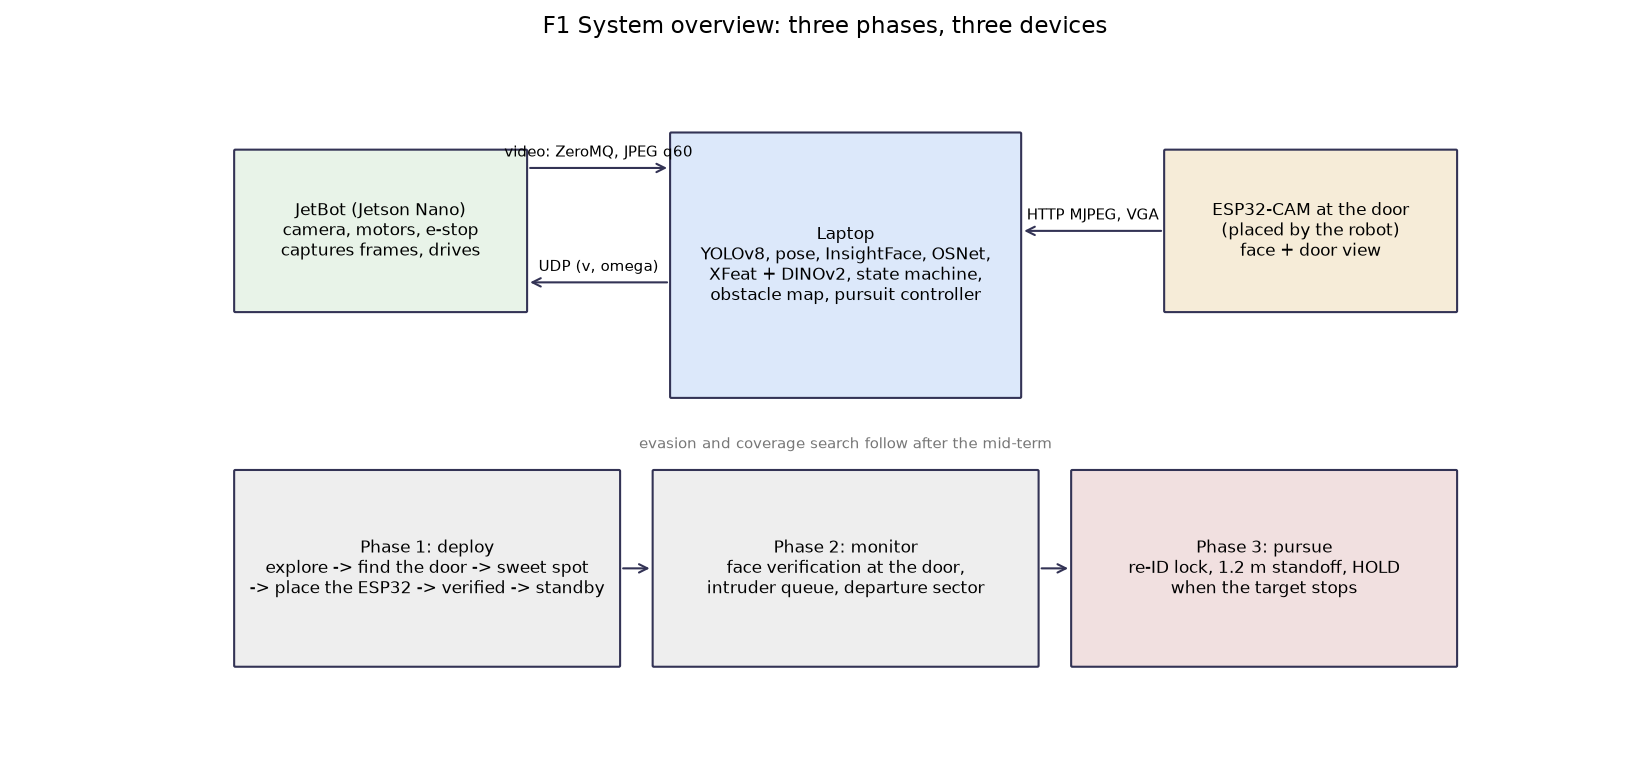
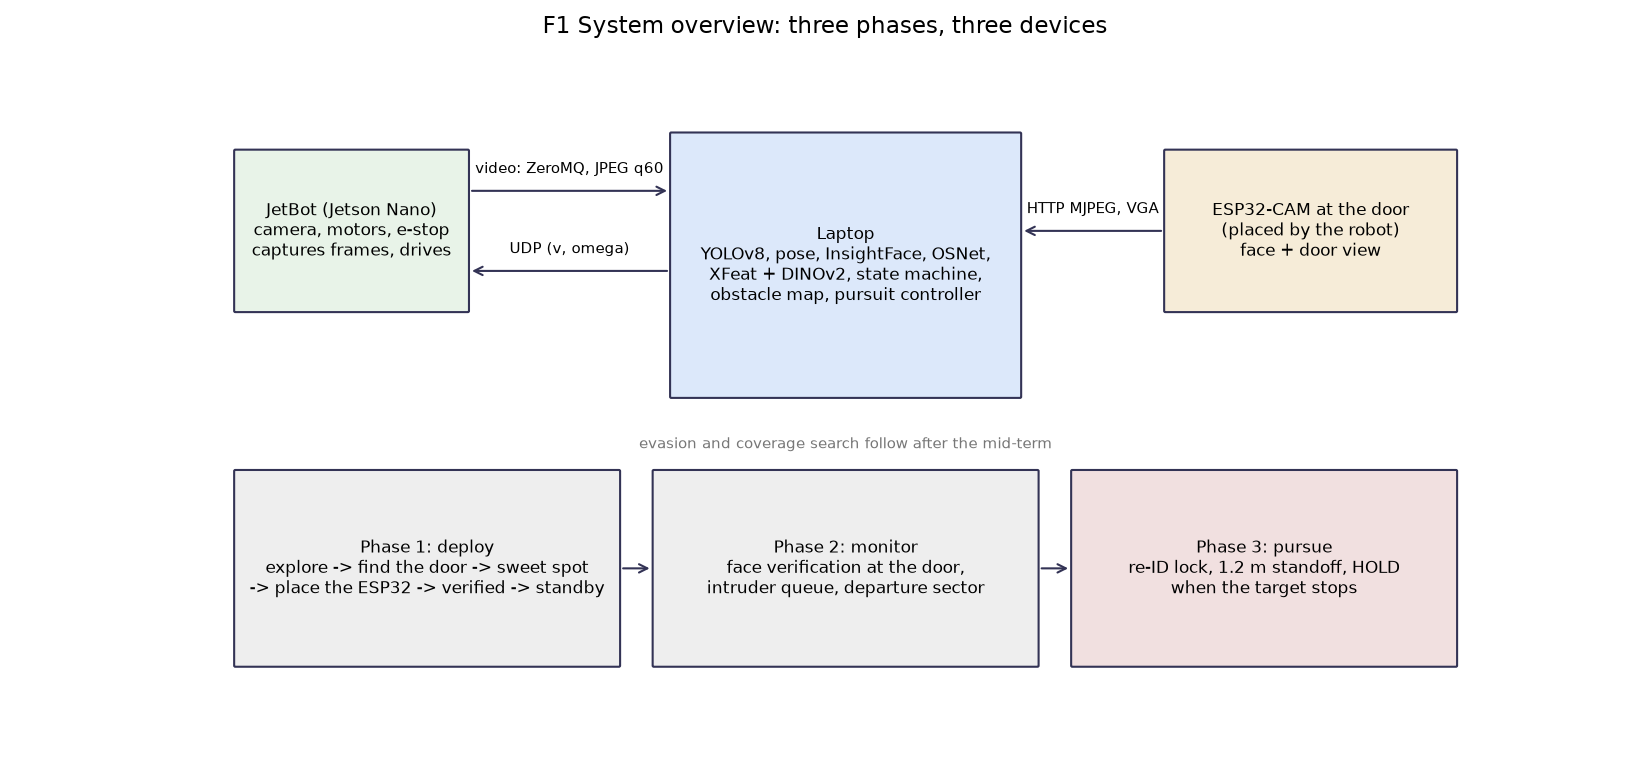
Review fixes for #98: restore the control-loop constants (NameError with marker fixes), validate --answers before the run, strict tape_answers, Edge safety wording, F5/F6 sources, figure labels

Changed region(s): [[0.1545, 0.2462, 0.4018, 0.3692], [0.2782, 0.1846, 0.4327, 0.2462], [0.6182, 0.2462, 0.7109, 0.2769]]

diff --git a/tools/plot_dqk_report_figures.py b/tools/plot_dqk_report_figures.py
@@ -1,4 +1,4 @@
-"""DQK's report figures that can be made from existing evidence (Mid-Term Report Plan section 3): F1 and F2 (diagrams), F4, F5, F6, F20, F21. Every number is read from a committed file.
+"""DQK's report figures that can be made from existing evidence (Mid-Term Report Plan section 3): F1 and F2 (diagrams), F4, F5, F6, F20, F21. Every number is read from a committed file (F19 from git history).
 
   python -m tools.plot_dqk_report_figures            # writes reports/DoanQuocKien/week-05/figures/F*.png
 
@@ -28,7 +28,7 @@ def box(ax, x, y, w, h, text, color="#dce8fa", fs=8):
 def arrow(ax, x0, y0, x1, y1, text="", fs=7):
     ax.annotate("", xy=(x1, y1), xytext=(x0, y0), arrowprops=dict(arrowstyle="->", color="#335"))
     if text:
-        ax.text((x0 + x1) / 2, (y0 + y1) / 2 + 0.2, text, ha="center", fontsize=fs)
+        ax.text((x0 + x1) / 2, (y0 + y1) / 2 + 0.25, text, ha="center", va="bottom", fontsize=fs, bbox=dict(fc="white", ec="none", pad=1))
 
 
 def f1():
@@ -36,11 +36,11 @@ def f1():
     ax.set_xlim(0, 22)
     ax.set_ylim(0, 10.5)
     ax.axis("off")
-    box(ax, 0.5, 6.7, 5.0, 2.8, "JetBot (Jetson Nano)\ncamera, motors, e-stop\ncaptures frames, drives", "#e8f3e8")
+    box(ax, 0.5, 6.7, 4.0, 2.8, "JetBot (Jetson Nano)\ncamera, motors, e-stop\ncaptures frames, drives", "#e8f3e8")
     box(ax, 8.0, 5.2, 6.0, 4.6, "Laptop\nYOLOv8, pose, InsightFace, OSNet,\nXFeat + DINOv2, state machine,\nobstacle map, pursuit controller", "#dce8fa")
     box(ax, 16.5, 6.7, 5.0, 2.8, "ESP32-CAM at the door\n(placed by the robot)\nface + door view", "#f6ecd8")
-    arrow(ax, 5.5, 9.2, 8.0, 9.2, "video: ZeroMQ, JPEG q60")
-    arrow(ax, 8.0, 7.2, 5.5, 7.2, "UDP (v, omega)")
+    arrow(ax, 4.5, 8.8, 8.0, 8.8, "video: ZeroMQ, JPEG q60")
+    arrow(ax, 8.0, 7.4, 4.5, 7.4, "UDP (v, omega)")
     arrow(ax, 16.5, 8.1, 14.0, 8.1, "HTTP MJPEG, VGA")
     phases = [("Phase 1: deploy", "explore -> find the door -> sweet spot\n-> place the ESP32 -> verified -> standby"),
               ("Phase 2: monitor", "face verification at the door,\nintruder queue, departure sector"),
@@ -60,17 +60,17 @@ def f2():
     ax.set_xlim(0, 22)
     ax.set_ylim(0, 9)
     ax.axis("off")
-    box(ax, 0.3, 5.5, 4.5, 2.6, "Robot camera\n640x480, 10-20 fps", "#e8f3e8")
-    box(ax, 0.3, 1.0, 4.5, 2.6, "Gamepad / e-stop\nR1 dead-man, Start arm", "#e8f3e8")
+    box(ax, 0.3, 5.5, 3.6, 2.6, "Robot camera\n640x480, 10-20 fps", "#e8f3e8")
+    box(ax, 0.3, 1.0, 3.6, 2.6, "Gamepad / e-stop\nR1 dead-man, Start arm", "#e8f3e8")
     box(ax, 8.5, 5.5, 5.0, 2.6, "Laptop pipeline\nundistort, detect, pose,\nverify, track", "#dce8fa")
     box(ax, 8.5, 1.0, 5.0, 2.6, "State machine +\ncontrollers (30 Hz)", "#dce8fa")
     box(ax, 17.0, 5.5, 4.5, 2.6, "ESP32-CAM\nOV2640 VGA MJPEG", "#f6ecd8")
     box(ax, 17.0, 1.0, 4.5, 2.6, "Robot motors\nwatchdog 0.3 s", "#e8f3e8")
-    arrow(ax, 4.8, 6.8, 8.5, 6.8, "ZeroMQ JPEG q60, seq + t_cap")
+    arrow(ax, 3.9, 6.8, 8.5, 6.8, "ZeroMQ JPEG q60, seq + t_cap")
     arrow(ax, 17.0, 6.8, 13.5, 6.8, "HTTP MJPEG :81")
     arrow(ax, 11, 5.5, 11, 3.6, "events")
     arrow(ax, 13.5, 2.3, 17.0, 2.3, "UDP (v, omega) 30 Hz")
-    arrow(ax, 4.8, 2.3, 8.5, 2.3, "latch file ESTOP via SSH poll 5 Hz")
+    arrow(ax, 3.9, 2.3, 8.5, 2.3, "ESTOP latch file, SSH poll 5 Hz")
     fig.suptitle("F2 Data flow: links, rates and formats", fontsize=11)
     fig.savefig(OUT / "F2_data_flow.png")
     plt.close(fig)
@@ -88,7 +88,7 @@ def f4():
     ax.set_xlabel("checkerboard view (sorted)")
     ax.set_ylabel("reprojection error (px)")
     ax.legend(fontsize=8, loc="upper left")
-    ax.set_title("F4 Fisheye calibration (equidistant model, 2026-10-11): per-view error of the FIRST fit (all views); red = the %d views then dropped" % len(dropped))
+    ax.set_title("F4 Fisheye calibration (equidistant model, 2026-10-11)\nper-view error of the FIRST fit (all views); red = the %d views then dropped" % len(dropped), fontsize=10)
     fig.tight_layout()
     fig.savefig(OUT / "F4_fisheye_error.png")
     plt.close(fig)
@@ -101,16 +101,19 @@ def f5():
         if j.get("pitch_down_deg") is None or "attempt1" in f or "locked" in f:
             continue
         rows.append((Path(f).stem.replace("camera_pose_", ""), j["pitch_down_deg"], j.get("H_cam_m")))
-    rows.append(("deployment runs 10-30 (video)", 6.1, None))
+    fm = json.load(open(R / "week-04" / "classroom_1030" / "analysis" / "floor_model_1030.json"))["camera"]["pitch_down_deg_marker"]
+    dep = list(fm["deploy_runs"].values())
+    rows.append(("deployment runs 10-30\n(marker in the video)", sum(dep) / len(dep), None))
     fig, ax = plt.subplots(figsize=(11, 4.2), dpi=150)
     ax.bar(range(len(rows)), [r[1] for r in rows], color=[RED if r[0].startswith("deployment") else BLUE for r in rows])
     for i, r in enumerate(rows):
-        ax.text(i, r[1] + (0.3 if r[1] >= 0 else -0.9), "%.1f" % r[1], ha="center", fontsize=8)
+        ax.text(i, r[1] + (0.3 if r[1] >= 0 else -0.9), "%.1f" % r[1] + ("" if r[2] is None else "\nH %.3f m" % r[2]), ha="center", fontsize=7)
     ax.axhline(0, c="#444", lw=0.8)
     ax.set_xticks(range(len(rows)))
     ax.set_xticklabels([r[0] for r in rows], rotation=25, ha="right", fontsize=7)
     ax.set_ylabel("camera pitch, positive = looking down (deg)")
-    ax.set_title("F5 Camera pitch over sessions (mount is tiltable; lens height fixed at 0.100 m): methods differ, see the pose files")
+    ax.set_title("F5 Camera pitch per session (tiltable mount). Pose files from different fit methods and heights H (shown); the red bar is the mean of %d\n"
+                 "marker readings %.2f-%.2f deg in the 10-30 videos (classroom_1030/analysis/floor_model_1030.json)" % (len(dep), min(dep), max(dep)), fontsize=9)
     fig.tight_layout()
     fig.savefig(OUT / "F5_camera_pitch_sessions.png")
     plt.close(fig)
@@ -132,12 +135,13 @@ def f6():
     b.set_xlabel("run")
     b.set_ylabel("lateral / forward (m per m)")
     b.set_title("B. Drift to the side per metre")
-    runs = {"11.58-11.70 V\n(0.2239-0.2245)": 0.2242, "11.39-11.44 V\n(0.2156-0.2159)": 0.2157}   # means of the per-drive fits in classroom_1030/analysis
-    c.bar(list(runs), list(runs.values()), color=BLUE)
-    for i, v in enumerate(runs.values()):
-        c.text(i, v + 0.002, "%.4f" % v, ha="center", fontsize=8)
+    sv = json.load(open(R / "week-04" / "classroom_1030" / "analysis" / "speed_vs_battery.json"))["data"]
+    for name, row in sv.items():
+        c.errorbar(row["battery_mean"], row["speed"], yerr=row["speed_se"], fmt="o", color=BLUE)
+        c.annotate(name, (row["battery_mean"], row["speed"]), textcoords="offset points", xytext=(4, 5), fontsize=7)
+    c.set_xlabel("battery (V)")
     c.set_ylim(0.2, 0.23)
-    c.set_ylabel("speed at v = 0.55 (m/s)")
+    c.set_ylabel("speed at v = 0.55 (m/s), one drive each")
     c.set_title("C. Speed vs battery (10-30, -3.9 %)")
     fig.suptitle("F6 Motion model: measured speed, drift and battery dependence (end points from the committed runs)", fontsize=10)
     fig.tight_layout()
@@ -197,7 +201,7 @@ def f19():
     weeks = [("W1\nOct 11", "2026-10-11 23:59"), ("W2\nOct 18", "2026-10-18 23:59"), ("W3\nOct 25", "2026-10-25 23:59"), ("W4\nNov 1", "2026-11-01 23:59"), ("W5 so far\nNov 3", "2026-11-03 23:59")]
     counts = []
     for label, when in weeks:
-        rev = subprocess.run(["git", "rev-list", "-1", "--before=" + when, "origin/main"], cwd=ROOT, capture_output=True, text=True).stdout.strip()
+        rev = subprocess.run(["git", "rev-list", "-1", "--before=" + when + " +0700", "origin/main"], cwd=ROOT, capture_output=True, text=True).stdout.strip()   # Asia/Bangkok, first-parent history of origin/main
         out = subprocess.run(["git", "grep", "-c", "^ *def test_", rev, "--", "tests"], cwd=ROOT, capture_output=True, text=True).stdout
         counts.append(sum(int(line.rsplit(":", 1)[1]) for line in out.splitlines() if line.strip()))
     fig, a = plt.subplots(figsize=(8, 4), dpi=150)
@@ -205,7 +209,8 @@ def f19():
     for i, c in enumerate(counts):
         a.text(i, c + 8, str(c), ha="center", fontsize=9)
     a.set_ylabel("test functions on main")
-    a.set_title("F19 Test growth by week (def test_ in tests/, from git history)")
+    head = subprocess.run(["git", "rev-parse", "--short", "origin/main"], cwd=ROOT, capture_output=True, text=True).stdout.strip()
+    a.set_title("F19 Test growth by week (def test_ in tests/, git history of origin/main @ %s,\nweek ends Sunday 23:59 Asia/Bangkok)" % head, fontsize=9)
     fig.tight_layout()
     fig.savefig(OUT / "F19_test_growth.png")
     plt.close(fig)

diff --git a/tools/tape_answers.py b/tools/tape_answers.py
@@ -2,23 +2,78 @@
 
   python -m tools.tape_answers data/deploy/t2b_1 --offset-x -0.18 --offset-y 0.19 --door-m 1.96 --los y --furniture y --furniture-m 0.9 --collisions 0
 
-Axes: x forward from the START, y left of the START, metres, tape offset of the robot from the sweet spot (+ = ahead / left). Writes the keys that deploy_live's `tape_answers` uses and the run is then complete.
+Axes: x forward from the START, y left of the START, metres, tape offset of the robot from the sweet spot (+ = ahead / left). A blank or missing value means "not answered" (never an error and never a zero);
+`offset_m` is computed only when both coordinates are valid; invalid input (NaN/Inf, negative distance or count, bad yes/no) is refused and the file is left untouched; the file is written atomically.
 """
 import argparse
 import json
 import math
+import os
 from pathlib import Path
+
+FLOATS = ("offset_x_forward_m", "offset_y_left_m", "door_distance_m_tape", "furniture_distance_m_tape")
+NONNEG = ("door_distance_m_tape", "furniture_distance_m_tape")
+YESNO = ("line_of_sight_clear", "near_boundary_or_furniture")
+
+
+def _blank(v):
+    return v is None or (isinstance(v, str) and not v.strip())
+
+
+def clean(answers):
+    """-> dict of the valid answered values; raises ValueError naming the first invalid one. Blank = unanswered (dropped)."""
+    if not isinstance(answers, dict):
+        raise ValueError("the answers must be a JSON object, got %s" % type(answers).__name__)
+    out = {}
+    for k, v in answers.items():
+        if _blank(v):
+            continue
+        if k in FLOATS:
+            try:
+                f = float(v)
+            except (TypeError, ValueError):
+                raise ValueError("%s: not a number: %r" % (k, v))
+            if not math.isfinite(f) or (k in NONNEG and f < 0):
+                raise ValueError("%s: must be a finite %s number, got %r" % (k, "non-negative" if k in NONNEG else "", v))
+            out[k] = f
+        elif k == "collisions":
+            try:
+                n = int(float(v))
+            except (TypeError, ValueError):
+                raise ValueError("collisions: not a number: %r" % (v,))
+            if n != float(v) or n < 0:
+                raise ValueError("collisions: must be a non-negative integer, got %r" % (v,))
+            out[k] = n
+        elif k in YESNO:
+            if str(v).strip().lower() not in ("y", "n", "yes", "no"):
+                raise ValueError("%s: must be y or n, got %r" % (k, v))
+            out[k] = "y" if str(v).strip().lower().startswith("y") else "n"
+        else:
+            out[k] = v
+    return out
+
+
+def load_answers_file(path):
+    """Read and validate an --answers file BEFORE the robot starts: a missing or malformed file must not cost a physical trial."""
+    try:
+        data = json.loads(Path(path).read_text(encoding="utf-8"))
+    except (OSError, ValueError) as exc:
+        raise ValueError("cannot read the answers file %s: %s" % (path, exc))
+    return clean(data)
 
 
 def add_answers(run_dir, answers):
     path = Path(run_dir) / "summary.json"
     summary = json.loads(path.read_text())
-    cur = summary.get("tape_answers") or {}
-    cur.update({k: v for k, v in answers.items() if v is not None})
+    cur = clean(summary.get("tape_answers") or {})
+    cur.update(clean(answers))
+    cur.pop("offset_m", None)
     if "offset_x_forward_m" in cur and "offset_y_left_m" in cur:
-        cur["offset_m"] = round(math.hypot(float(cur["offset_x_forward_m"]), float(cur["offset_y_left_m"])), 3)
+        cur["offset_m"] = round(math.hypot(cur["offset_x_forward_m"], cur["offset_y_left_m"]), 3)
     summary["tape_answers"] = cur
-    path.write_text(json.dumps(summary, indent=1))
+    tmp = path.with_suffix(".json.tmp")
+    tmp.write_text(json.dumps(summary, indent=1, allow_nan=False))
+    os.replace(str(tmp), str(path))
     return cur
 
 
@@ -33,8 +88,11 @@ def main():
     ap.add_argument("--furniture-m", type=float, help="tape distance to that wall or furniture, m")
     ap.add_argument("--collisions", type=int)
     a = ap.parse_args()
-    out = add_answers(a.run_dir, {"offset_x_forward_m": a.offset_x, "offset_y_left_m": a.offset_y, "door_distance_m_tape": a.door_m, "line_of_sight_clear": a.los,
-                                  "near_boundary_or_furniture": a.furniture, "furniture_distance_m_tape": a.furniture_m, "collisions": a.collisions})
+    try:
+        out = add_answers(a.run_dir, {"offset_x_forward_m": a.offset_x, "offset_y_left_m": a.offset_y, "door_distance_m_tape": a.door_m, "line_of_sight_clear": a.los,
+                                      "near_boundary_or_furniture": a.furniture, "furniture_distance_m_tape": a.furniture_m, "collisions": a.collisions})
+    except ValueError as exc:
+        raise SystemExit("REFUSED, nothing written: %s" % exc)
     print(json.dumps(out, indent=1))
 
 

diff --git a/tools/deploy_live.py b/tools/deploy_live.py
@@ -113,6 +113,8 @@ def fresh_flag(feed, now, max_age=ESP_FRESH_S):
     """feed: dict with in_view and t (when the detector last answered), or None -> True only for a fresh in-view answer."""
     return bool(feed and feed.get("t") is not None and now - feed["t"] <= max_age and feed.get("in_view"))
 
+SPIN_PULSE_S, SPIN_PAUSE_S, FIX_STILL_S, FIX_MAX_W = 0.2, 0.5, 0.4, 0.15     # a spin goes in 0.2 s pulses with 0.5 s pauses when marker fixes are on; a fix needs the robot still for 0.4 s; steering below 0.15 counts as straight
+
 
 def blend_fix(pose, fix, gain):
     """Move the dead-reckoned pose toward a marker pose by `gain` (yaw along the short way)."""
@@ -258,6 +260,13 @@ def main():
     ap.add_argument("--answers", default=None, help="JSON file with the tape answers (keys as in summary.json tape_answers); without it they are asked at the end when a terminal is attached, else add them with tools.tape_answers")
     ap.add_argument("--no-audio", action="store_true", help="do not speak (rehearsal in a quiet room); the prompts are still logged")
     a = ap.parse_args()
+    answers_file = None
+    if a.answers:                                         # validate BEFORE the robot starts: a bad file must not cost a physical trial
+        from tools.tape_answers import load_answers_file
+        try:
+            answers_file = load_answers_file(a.answers)
+        except ValueError as exc:
+            raise SystemExit("ABORT: %s" % exc)
     a.dry_run = a.dry_run or a.no_robot
     if not 10 <= a.seconds <= 300:
         ap.error("seconds in [10, 300]")
@@ -503,8 +512,8 @@ def main():
     print("ENDED: %s | %.1f s | DR path %.1f m | final DR pose (%.2f, %.2f, %.0f deg) | prompts %s" % (end["reason"], time.time() - t_wall, path, final[0], final[1], math.degrees(final[2]), runner.prompts), flush=True)
 
     answers = {}
-    if a.answers:
-        answers = json.loads(Path(a.answers).read_text())
+    if answers_file is not None:
+        answers = answers_file
     elif not a.dry_run and sys.stdin is not None and sys.stdin.isatty():
         for key, q in (("door_distance_m_tape", "Distance from the robot to the entrance door (m, tape): "), ("line_of_sight_clear", "Clear line of sight to the entrance (y/n): "),
                        ("near_boundary_or_furniture", "Adjacent wall or furniture within 1 m (y/n): "), ("furniture_distance_m_tape", "Distance to that wall or furniture (m, tape; blank if none): "),
@@ -512,8 +521,8 @@ def main():
                        ("collisions", "Collisions or touches (number): ")):
             try:
                 answers[key] = input(q).strip()
-            except EOFError:
-                answers[key] = ""
+            except (EOFError, KeyboardInterrupt, OSError):
+                answers[key] = ""          # unanswered: the evidence below is still saved; add them with tools.tape_answers
     elif not a.dry_run:
         print("WARNING: the tape answers were NOT captured (no terminal, no --answers file). Add them now: python -m tools.tape_answers <run folder> --offset-x .. --offset-y ..", flush=True)
     out_dir = Path(a.out)

diff --git a/tests/test_tape_answers.py b/tests/test_tape_answers.py
@@ -1,10 +1,49 @@
 import json
 
-from tools.tape_answers import add_answers
+import pytest
+
+from tools.tape_answers import add_answers, clean, load_answers_file
+
+
+def _run(tmp_path, answers):
+    (tmp_path / "summary.json").write_text(json.dumps({"label": "t", "tape_answers": answers}))
+    return tmp_path
 
 
 def test_answers_are_merged_into_the_summary_with_the_offset_length(tmp_path):
-    (tmp_path / "summary.json").write_text(json.dumps({"label": "t", "tape_answers": {"collisions": ""}}))
-    out = add_answers(tmp_path, {"offset_x_forward_m": -0.18, "offset_y_left_m": 0.19, "collisions": 0, "door_distance_m_tape": None})
-    saved = json.loads((tmp_path / "summary.json").read_text())["tape_answers"]
-    assert saved == out and out["offset_m"] == 0.262 and out["collisions"] == 0 and "door_distance_m_tape" not in out
+    out = add_answers(_run(tmp_path, {"collisions": ""}), {"offset_x_forward_m": -0.18, "offset_y_left_m": 0.19, "collisions": 0, "door_distance_m_tape": None})
+    assert json.loads((tmp_path / "summary.json").read_text())["tape_answers"] == out
+    assert out["offset_m"] == 0.262 and out["collisions"] == 0 and "door_distance_m_tape" not in out
+
+
+def test_blank_answers_stay_unanswered_and_a_later_partial_update_works(tmp_path):
+    d = _run(tmp_path, {"offset_x_forward_m": "", "offset_y_left_m": "", "collisions": ""})
+    out = add_answers(d, {"collisions": 0})
+    assert out == {"collisions": 0} and "offset_m" not in out                       # blanks are not zeros, one coordinate gives no length
+    out = add_answers(d, {"offset_x_forward_m": 0.3})
+    assert "offset_m" not in out
+    assert add_answers(d, {"offset_y_left_m": -0.4})["offset_m"] == 0.5
+
+
+@pytest.mark.parametrize("bad", [{"offset_x_forward_m": float("nan")}, {"offset_y_left_m": float("inf")}, {"collisions": -1}, {"collisions": 1.5},
+                                 {"door_distance_m_tape": -2}, {"line_of_sight_clear": "maybe"}, {"offset_x_forward_m": "abc"}])
+def test_invalid_input_is_refused_and_the_file_is_left_untouched(tmp_path, bad):
+    d = _run(tmp_path, {"collisions": 0})
+    before = (tmp_path / "summary.json").read_text()
+    with pytest.raises(ValueError):
+        add_answers(d, bad)
+    assert (tmp_path / "summary.json").read_text() == before
+
+
+def test_an_answers_file_is_validated_before_a_run(tmp_path):
+    with pytest.raises(ValueError, match="cannot read"):
+        load_answers_file(tmp_path / "missing.json")
+    (tmp_path / "bad.json").write_text("{not json")
+    with pytest.raises(ValueError, match="cannot read"):
+        load_answers_file(tmp_path / "bad.json")
+    (tmp_path / "list.json").write_text("[1, 2]")
+    with pytest.raises(ValueError, match="JSON object"):
+        load_answers_file(tmp_path / "list.json")
+    (tmp_path / "ok.json").write_text(json.dumps({"collisions": "0", "line_of_sight_clear": "Y", "offset_x_forward_m": ""}))
+    assert load_answers_file(tmp_path / "ok.json") == {"collisions": 0, "line_of_sight_clear": "y"}
+    assert clean({}) == {}

diff --git a/tests/test_deploy_live.py b/tests/test_deploy_live.py
@@ -14,15 +14,15 @@ class Speaker:
         return True
 
 
-def loop(get_flag=lambda now: False, get_link=lambda now: None, seconds=100.0, key=lambda: None, cfg=None):
+def loop(get_flag=lambda now: False, get_link=lambda now: None, seconds=100.0, key=lambda: None, cfg=None, get_fix=None, vantage=(1.2, 0.6)):
     clock_t = {"t": 0.0}
     sp = Speaker()
-    runner = DeployRunner(StateMachine(cfg or StateMachineConfig()), sp, vantage_xy=(1.2, 0.6), centre_xy=(3.0, 0.0))
+    runner = DeployRunner(StateMachine(cfg or StateMachineConfig()), sp, vantage_xy=vantage, centre_xy=(3.0, 0.0))
     cmd, end = {"v": 0.0, "w": 0.0, "t": 0.0}, {"reason": None}
 
     def sleep(d):
         clock_t["t"] += d
-    rows, pose, path = control_loop(runner, WheelModel(), cmd, end, lambda now: get_flag(now), get_link, seconds, clock=lambda: clock_t["t"], sleep=sleep, key=key)
+    rows, pose, path = control_loop(runner, WheelModel(), cmd, end, lambda now: get_flag(now), get_link, seconds, clock=lambda: clock_t["t"], sleep=sleep, key=key, get_fix=get_fix)
     return rows, end, runner, sp, cmd, path
 
 
@@ -144,3 +144,25 @@ def test_stop_margin_stops_the_motors_before_the_stop_range_and_the_arrival_pose
     r.start(0.0, 0.0)
     assert r.step(0.1, (0.0, 0.0, 0.0)) == (0.0, 0.0)              # 0.90 m <= 0.87 + 0.044: stopped already (it coasts to about 0.86 m)
     assert r.pose_reset is not None and abs(r.pose_reset[0]) < 1e-9 and abs(r.pose_reset[1] + 1.8) < 1e-9
+
+
+def test_the_control_loop_runs_with_marker_fixes_on_and_spins_in_pulses():
+    """Regression (found by HNHL's review of #98): removing servo_motion had removed the loop's constants, so every run with get_fix raised NameError."""
+    rows, end, runner, sp, cmd, path = loop(seconds=3.0, get_fix=lambda: None, vantage=(0.0, 2.0))      # the goal is 90 deg to the left: the robot spins first
+    spin = [r[5] for r in rows if r[0] < 2.9]
+    assert end["reason"] == "time limit" and any(w > 0.3 for w in spin) and any(w == 0.0 for w in spin)      # pulses with pauses
+    assert end["fixes"] == 0
+
+
+def test_a_missing_or_malformed_answers_file_aborts_before_any_hardware(monkeypatch, tmp_path):
+    import sys
+    import pytest
+    from tools import deploy_live
+    for name, content in (("missing.json", None), ("bad.json", "{not json"), ("list.json", "[1]")):
+        f = tmp_path / name
+        if content is not None:
+            f.write_text(content)
+        monkeypatch.setattr(sys, "argv", ["deploy_live", "--centre", "0", "0", "--no-robot", "--answers", str(f)])
+        with pytest.raises(SystemExit) as e:
+            deploy_live.main()
+        assert str(e.value).startswith("ABORT:")

diff --git a/docs/Implementation Plan.md b/docs/Implementation Plan.md
@@ -177,7 +177,7 @@ Each week is closed by an **integration session on the Monday of the following w
 | G3 | Mon Nov 30 (W8 session, after the submission) | Stage B: pursuit loop on the robot | pursuit, hold and the laptop-path strike rows already pass (W6, W8); G2 passed | pursuit stays on the laptop |
 | G4 | Mon Dec 7 (W9 session) | Stage C (stretch): door pipeline, search, network on the robot | Stage B passed its rows and the team has a free week | the door and the search stay on the laptop; **no new edge work after Mon Dec 14**; code freeze Dec 23 applies as for everything |
 
-**G2 status (2026-11-03, plan fitted to the lateness at DQK's request): NOT MET and not attempted.** Stage A (the on-robot obstacle layer) was never started: Week 5 had no robot session, the 2026-10-30 session spent its time on the Phase 1 deployment, and the obstacle detector gave no distance for most furniture on the glossy floor (chair 1.2 m detected, no distance; chair 2.4 m not detected). The row's own fallback applies: the obstacle layer stays on the laptop path and there is no further edge work before the mid-term. G3 and G4 need G2 passed, so they are dropped for now. The 'Edge safety' row (laptop disconnected, motors stop <= 350 ms) does not need Stage A and stays on the home list for 2026-11-04. Re-open Stage A only after the mid-term (Week 8 or later).
+**G2 status (2026-11-03, plan fitted to the lateness at DQK's request): NOT MET and not attempted.** Stage A (the on-robot obstacle layer) was never started: Week 5 had no robot session, the 2026-10-30 session spent its time on the Phase 1 deployment, and the obstacle detector gave no distance for most furniture on the glossy floor (chair 1.2 m detected, no distance; chair 2.4 m not detected). The row's own fallback applies: the obstacle layer stays on the laptop path and there is no further edge work before the mid-term. G3 and G4 need G2 passed, so they are dropped for now. The 'Edge safety' row tests the disconnect while the robot runs the ON-ROBOT layer, so it cannot pass while Stage A is dropped and is not claimed. The laptop-path disconnect and dead-man check (Wi-Fi off or app closed, R1 released: motors stop <= 350 ms) stays on the home list as laptop-path safety evidence, labelled as such. Re-open Stage A only after the mid-term (Week 8 or later).
 
 Effort estimate (desk study, to be re-estimated at G1): Stage A about 4 person-days, Stage B 8-10, Stage C 8-12 (stretch). The bench and the conversion tooling (about 3 person-days) are already done and recorded.
 
